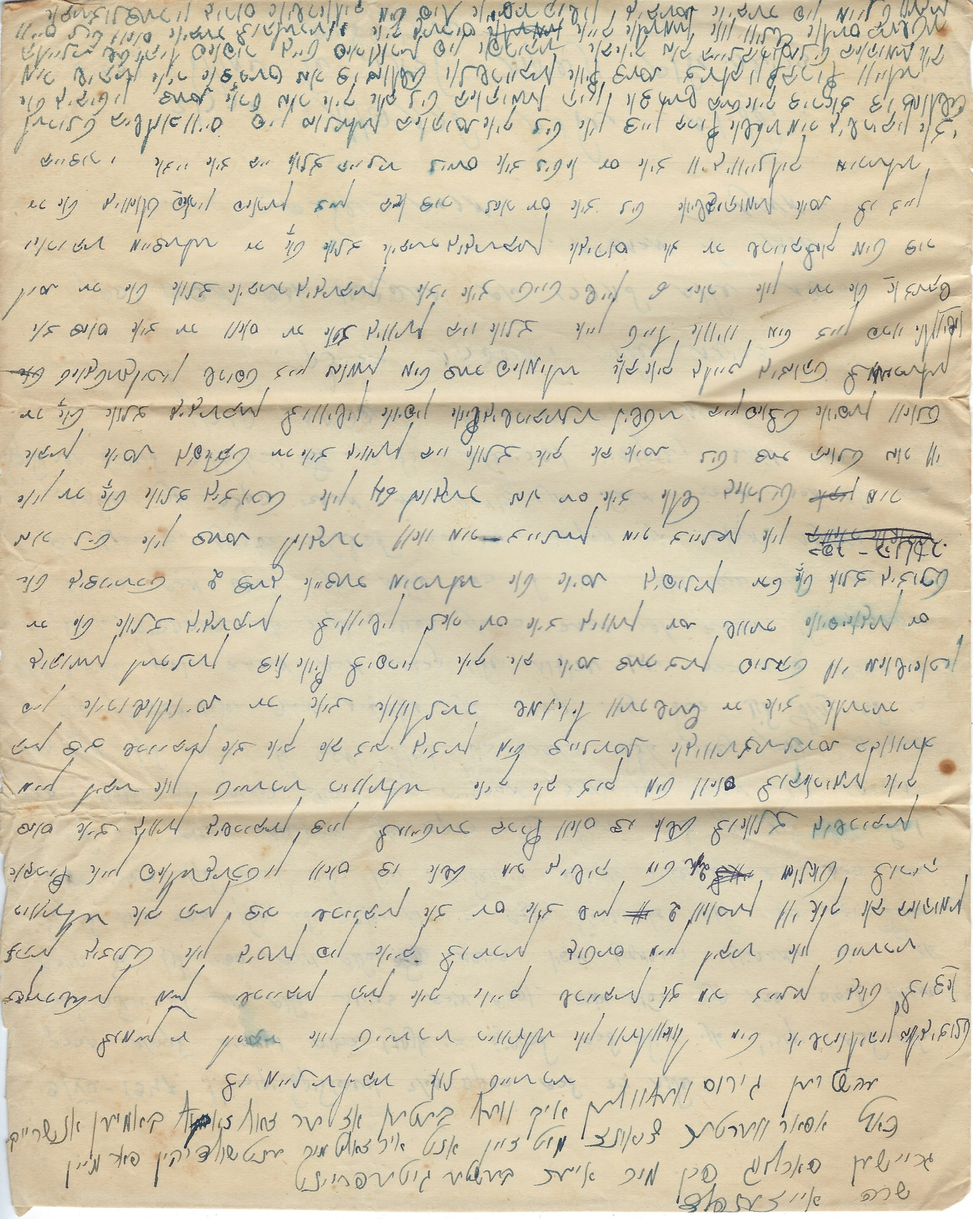
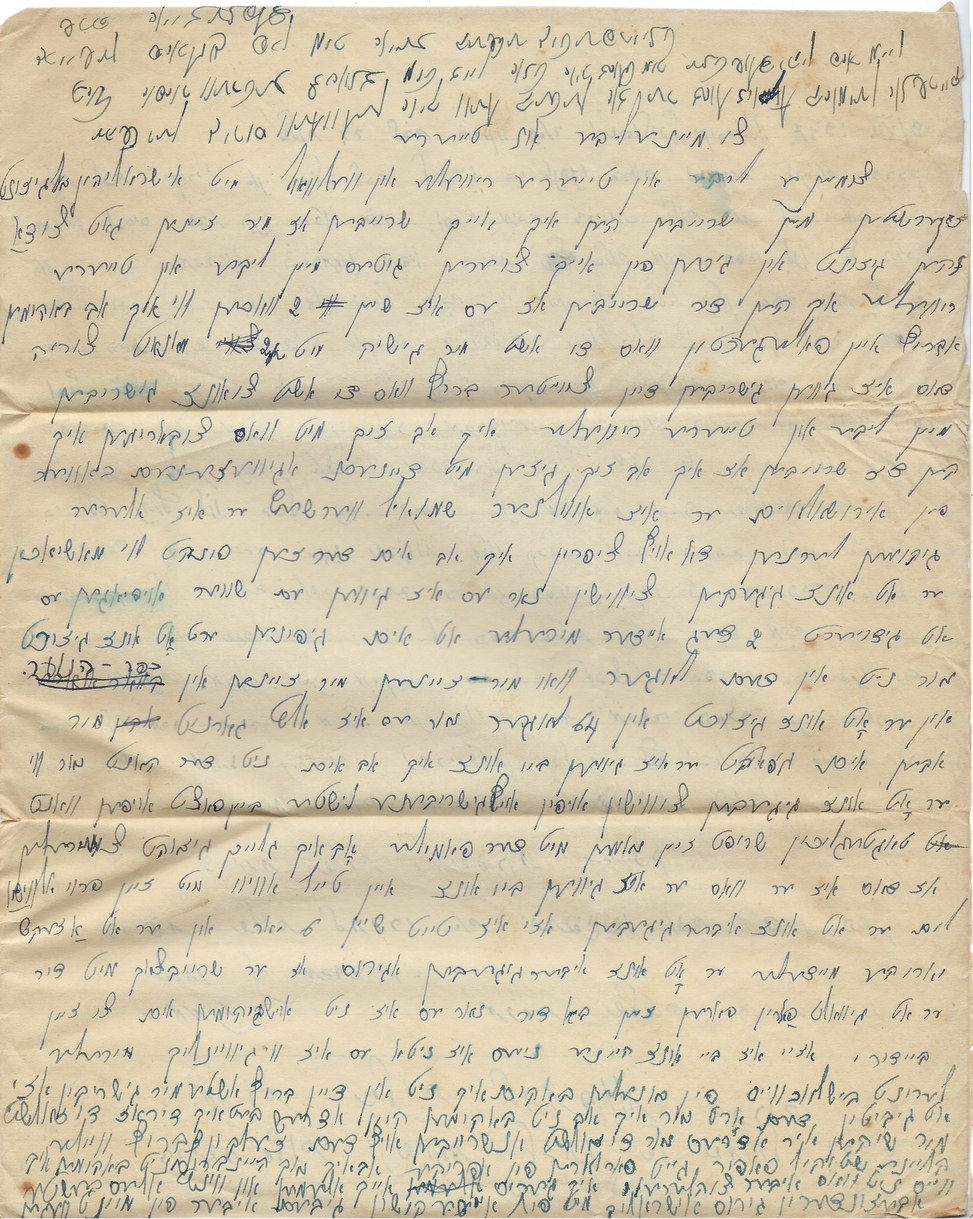
1947-07-09: rotate letter, transcribe hebrew

Changed region(s): [[0.0, 0.0, 1.0, 1.0]]

diff --git a/_posts/1947-07-09-miriam.md b/_posts/1947-07-09-miriam.md
@@ -1,11 +1,14 @@
 ---
-title: טרם תורגם - 
+title: טרם תורגם - מרים וסוניה כותבות מקפריסין
 date: 1947-07-09
 categories:
   - letter
 tags:
   - rivka
   - miriam
+  - sonia
+  - firon
+  - cyprus
   - needtrans
 ---
 
@@ -17,5 +20,37 @@ tags:
 </figure>
 
 ## תרגום
+
+9/7/1947
+
+שלום רב לכם רבקה זאב וישראליקל יקירי!!!
+
+שלום לכם יקירי! אני יכולה להודיע כי אנחנו בריאים ושמחים לקראת חברך
+שמואל ורביב שבא הנה בתור מורה והביא מכם דרישת שלום, את לא יכולה לתאר
+את רב שמחתנו כששמענו מפיו דרישת שלום מכם, סיפר לנו על חייכם
+בארץ וגם סיפר לנו על ישראל בנכם כי הוא שובב לא קטן. סיפר הוא לי על
+בתו הבת שש שהשאיר אותה בירושלים. הוא רצה לתת לנו דברי מאכל
+וכסף אבל לנו אין צורך בכל זה. רבקה אנו מבקשות ששום דבר לא
+תשלחי לנו מחוץ ספרי-לימוד, מסרקים כי כאן המים לא טובים לחפיפת
+השערות ולכן נשבר אצלי המסרק כולו. וחוץ מזה על תשלחי לנו שום דבר
+כי לא נחוץ לנו בכל זה. יקירי אני מצטערת מאוד שלא מגיעים אלי
+מכתביכם כי זה כבר שני שבועות שלא קיבלתי מכם מכתב ובכן אבקש מכם
+שתכתבו לי מכתב אחר מכתב כי אז אפשר אקבל את המכתבים. אבקש
+גם מאת זאב שגם הוא יכתוב לי כמה מילים. אני אבקש מכם שתשלחו
+לי תמונות מכולם. אני מבקשת לא להצטער בעדינו כי לנו דום
+דבר לא חסר מדברי מאכל. אני גומרת את מכתבי הקצר. אני שלוחת
+לכל אחת ואחד נשיקות ודרישות שלום. וביחוד לשובב ישראליקל.
+
+דרישת שלום מיוחד למשפחת פירון  
+דרישת שלום למשפחת בביצקי.
+
+דרישת שלום לחבריי אם תתפגשו איתם מרו להם,
+כי ישלחו אלי מכתבים.
+
+ממני, מרים שלכם.
+
+שלום שלום להתראות בקרוב.
+דרישת שלום ונשיקות לבתו של שמואל ורסיס
+בירושלים.
 
 ## מקור
